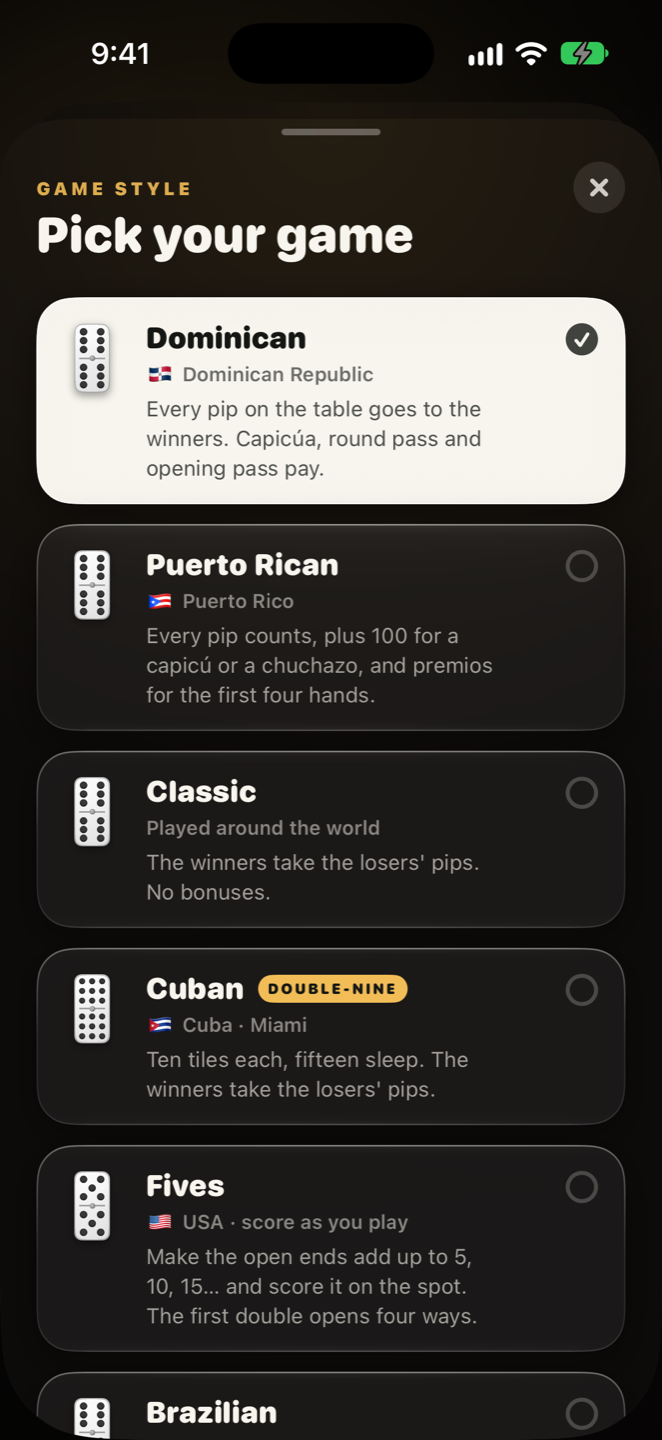
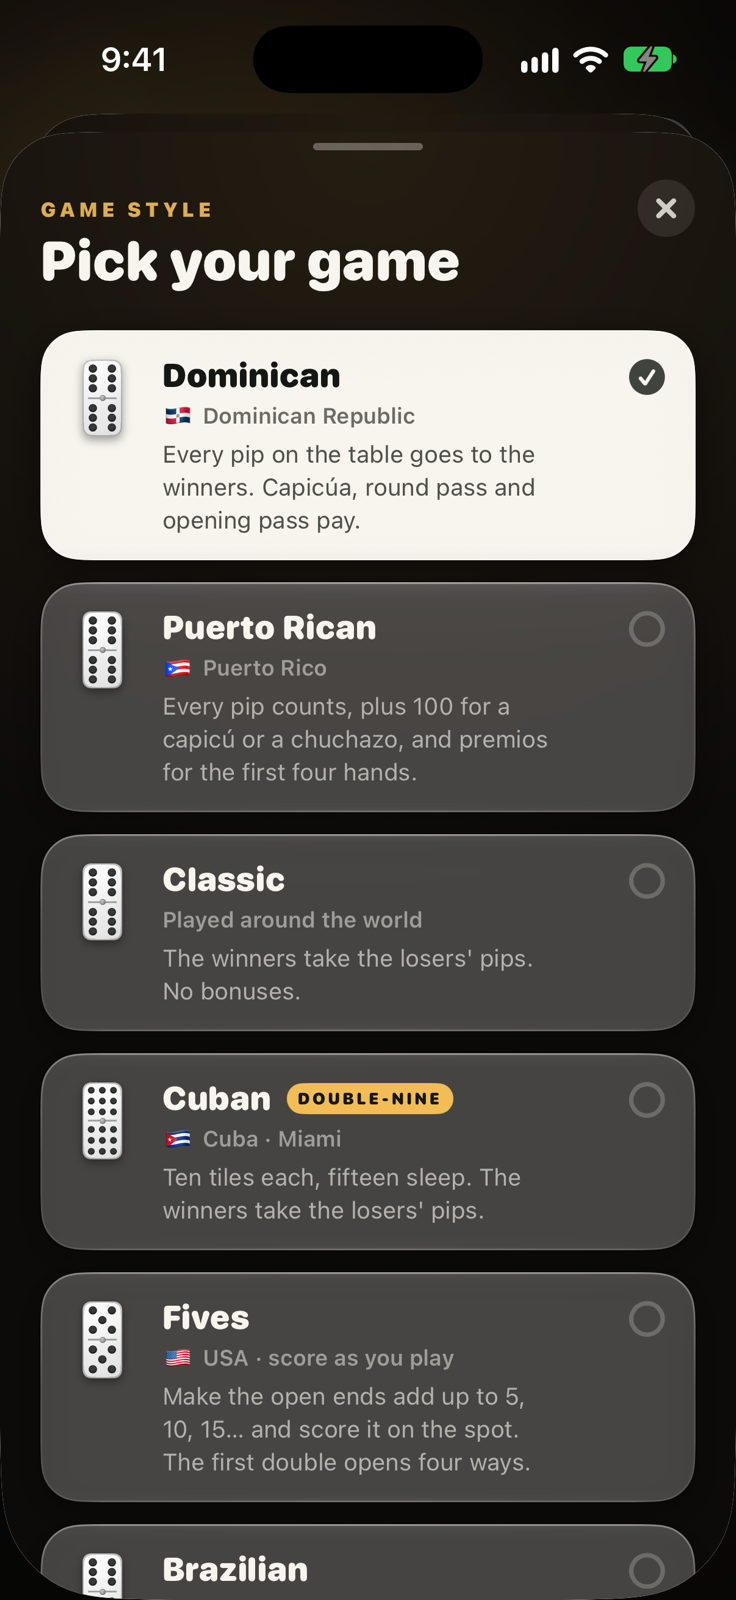
shots: the game strip recaptured with today's UI, plus a Quick Match frame (×17 caption); assets ?v=20261001a

diff --git a/index.html b/index.html
@@ -14,25 +14,25 @@
     <meta property="og:title" content="Magic Domino™ — Keep the score. Play the game.">
     <meta property="og:description" content="The dominoes scorekeeper trusted at real tables, and a real domino game with the rules you grew up with. Two rooms, one app.">
     <meta property="og:url" content="https://magicdomino.com/">
-    <meta property="og:image" content="https://magicdomino.com/social-card.png?v=20260931c">
+    <meta property="og:image" content="https://magicdomino.com/social-card.png?v=20261001a">
     <meta property="og:image:width" content="1024">
     <meta property="og:image:height" content="500">
     <meta name="twitter:card" content="summary_large_image">
     <meta name="twitter:title" content="Magic Domino™ — Keep the score. Play the game.">
     <meta name="twitter:description" content="The dominoes scorekeeper trusted at real tables, and a real domino game with the rules you grew up with. Two rooms, one app.">
-    <meta name="twitter:image" content="https://magicdomino.com/social-card.png?v=20260931c">
+    <meta name="twitter:image" content="https://magicdomino.com/social-card.png?v=20261001a">
 
     <link rel="preconnect" href="https://fonts.googleapis.com">
     <link rel="preconnect" href="https://fonts.gstatic.com" crossorigin>
     <link href="https://fonts.googleapis.com/css2?family=Fraunces:ital,opsz,wght@0,9..144,400;0,9..144,500;0,9..144,600;0,9..144,700;0,9..144,800;1,9..144,500&family=Inter:wght@400;500;600;700&display=swap" rel="stylesheet">
-    <link rel="stylesheet" href="site.css?v=20260931c">
-    <script src="/i18n.js?v=20260931c"></script>
+    <link rel="stylesheet" href="site.css?v=20261001a">
+    <script src="/i18n.js?v=20261001a"></script>
 </head>
 <body>
 
     <nav class="navbar" id="navbar">
         <a href="index.html" class="navbar-brand">
-            <img src="app-icon.png?v=20260931c" alt="" class="brand-icon"><span>Magic Domino<span class="brand-tm">™</span></span>
+            <img src="app-icon.png?v=20261001a" alt="" class="brand-icon"><span>Magic Domino<span class="brand-tm">™</span></span>
         </a>
         <button class="mobile-menu-toggle" onclick="toggleMenu()" aria-label="Menu" data-i18n-attr="aria-label:a11y.menu">☰</button>
         <div class="navbar-links" id="navbarLinks">
@@ -60,7 +60,7 @@
                     <a class="pane-link" href="#score"><span data-i18n="hero.scoreLink">See the scorekeeper</span> <span aria-hidden="true">↓</span></a>
                 </div>
                 <!-- A real phone, showing the real scoreboard, rising out of the pane. -->
-                <figure class="mock mock-score" aria-hidden="true"><img src="hero-score.png?v=20260931c" alt="" width="736" height="1600"></figure>
+                <figure class="mock mock-score" aria-hidden="true"><img src="hero-score.png?v=20261001a" alt="" width="736" height="1600"></figure>
             </div>
 
             <div class="pane pane-play world-play">
@@ -71,7 +71,7 @@
                     <a class="pane-link" href="#play"><span data-i18n="hero.playLink">See the game</span> <span aria-hidden="true">↓</span></a>
                 </div>
                 <!-- A real phone, showing the table mid-hand. -->
-                <figure class="mock mock-play" aria-hidden="true"><img src="hero-play.png?v=20260931c" alt="" width="736" height="1600"></figure>
+                <figure class="mock mock-play" aria-hidden="true"><img src="hero-play.png?v=20261001a" alt="" width="736" height="1600"></figure>
             </div>
 
         </div>
@@ -123,15 +123,15 @@
                 <button class="scroll-arrow scroll-arrow-left" aria-label="Previous screenshots" data-i18n-attr="aria-label:a11y.prevShots" onclick="scrollStrip('scoreStrip', -1)">‹</button>
                 <div class="strip" id="scoreStrip">
                     <figure class="shot"><div class="shot-frame">
-                        <img src="shot-2.png?v=20260931c" alt="Scoreboard view" data-i18n-attr="alt:alt.shot2" data-missing onload="shotLoaded(this)" onerror="this.remove()" loading="lazy">
+                        <img src="shot-2.png?v=20261001a" alt="Scoreboard view" data-i18n-attr="alt:alt.shot2" data-missing onload="shotLoaded(this)" onerror="this.remove()" loading="lazy">
                         <div class="ph"><div class="ph-title" data-i18n="alt.shot2">Scoreboard view</div></div>
                     </div></figure>
                     <figure class="shot"><div class="shot-frame">
-                        <img src="shot-3.png?v=20260931c" alt="Tournament bracket" data-i18n-attr="alt:alt.shot3" data-missing onload="shotLoaded(this)" onerror="this.remove()" loading="lazy">
+                        <img src="shot-3.png?v=20261001a" alt="Tournament bracket" data-i18n-attr="alt:alt.shot3" data-missing onload="shotLoaded(this)" onerror="this.remove()" loading="lazy">
                         <div class="ph"><div class="ph-title" data-i18n="alt.shot3">Tournament bracket</div></div>
                     </div></figure>
                     <figure class="shot"><div class="shot-frame">
-                        <img src="shot-4.png?v=20260931c" alt="Game history" data-i18n-attr="alt:alt.shot4" data-missing onload="shotLoaded(this)" onerror="this.remove()" loading="lazy">
+                        <img src="shot-4.png?v=20261001a" alt="Game history" data-i18n-attr="alt:alt.shot4" data-missing onload="shotLoaded(this)" onerror="this.remove()" loading="lazy">
                         <div class="ph"><div class="ph-title" data-i18n="alt.shot4">Game history</div></div>
                     </div></figure>
                 </div>
@@ -167,27 +167,31 @@
                 <button class="scroll-arrow scroll-arrow-left" aria-label="Previous screenshots" data-i18n-attr="aria-label:a11y.prevShots" onclick="scrollStrip('playStrip', -1)">‹</button>
                 <div class="strip" id="playStrip">
                     <figure class="shot"><div class="shot-frame">
-                        <img src="play-shot-1.png?v=20260931c" alt="The table" data-i18n-attr="alt:pshots.s1" data-missing onload="shotLoaded(this)" onerror="this.remove()" loading="lazy">
+                        <img src="play-shot-1.png?v=20261001a" alt="The table" data-i18n-attr="alt:pshots.s1" data-missing onload="shotLoaded(this)" onerror="this.remove()" loading="lazy">
                         <div class="ph"><div class="ph-title" data-i18n="pshots.s1">The table</div></div>
                     </div></figure>
                     <figure class="shot"><div class="shot-frame">
-                        <img src="play-shot-2.png?v=20260931c" alt="The front door" data-i18n-attr="alt:pshots.s5" data-missing onload="shotLoaded(this)" onerror="this.remove()" loading="lazy">
+                        <img src="play-shot-2.png?v=20261001a" alt="The front door" data-i18n-attr="alt:pshots.s5" data-missing onload="shotLoaded(this)" onerror="this.remove()" loading="lazy">
                         <div class="ph"><div class="ph-title" data-i18n="pshots.s5">The front door</div></div>
                     </div></figure>
                     <figure class="shot"><div class="shot-frame">
-                        <img src="play-shot-3.png?v=20260931c" alt="Pick your game" data-i18n-attr="alt:pshots.s2" data-missing onload="shotLoaded(this)" onerror="this.remove()" loading="lazy">
+                        <img src="play-shot-3.png?v=20261001a" alt="Pick your game" data-i18n-attr="alt:pshots.s2" data-missing onload="shotLoaded(this)" onerror="this.remove()" loading="lazy">
                         <div class="ph"><div class="ph-title" data-i18n="pshots.s2">Pick your game</div></div>
                     </div></figure>
                     <figure class="shot"><div class="shot-frame">
-                        <img src="play-shot-4.png?v=20260931c" alt="Play together" data-i18n-attr="alt:pshots.s3" data-missing onload="shotLoaded(this)" onerror="this.remove()" loading="lazy">
+                        <img src="play-shot-7.png?v=20261001a" alt="Find a match" data-i18n-attr="alt:pshots.s7" data-missing onload="shotLoaded(this)" onerror="this.remove()" loading="lazy">
+                        <div class="ph"><div class="ph-title" data-i18n="pshots.s7">Find a match</div></div>
+                    </div></figure>
+                    <figure class="shot"><div class="shot-frame">
+                        <img src="play-shot-4.png?v=20261001a" alt="Play together" data-i18n-attr="alt:pshots.s3" data-missing onload="shotLoaded(this)" onerror="this.remove()" loading="lazy">
                         <div class="ph"><div class="ph-title" data-i18n="pshots.s3">Play together</div></div>
                     </div></figure>
                     <figure class="shot"><div class="shot-frame">
-                        <img src="play-shot-5.png?v=20260931c" alt="The bracket" data-i18n-attr="alt:pshots.s4" data-missing onload="shotLoaded(this)" onerror="this.remove()" loading="lazy">
+                        <img src="play-shot-5.png?v=20261001a" alt="The bracket" data-i18n-attr="alt:pshots.s4" data-missing onload="shotLoaded(this)" onerror="this.remove()" loading="lazy">
                         <div class="ph"><div class="ph-title" data-i18n="pshots.s4">The bracket</div></div>
                     </div></figure>
                     <figure class="shot"><div class="shot-frame">
-                        <img src="play-shot-6.png?v=20260931c" alt="The hand is over" data-i18n-attr="alt:pshots.s6" data-missing onload="shotLoaded(this)" onerror="this.remove()" loading="lazy">
+                        <img src="play-shot-6.png?v=20261001a" alt="The hand is over" data-i18n-attr="alt:pshots.s6" data-missing onload="shotLoaded(this)" onerror="this.remove()" loading="lazy">
                         <div class="ph"><div class="ph-title" data-i18n="pshots.s6">The hand is over</div></div>
                     </div></figure>
                 </div>
@@ -213,7 +217,7 @@
                     <p class="lead" data-i18n="duo.desc">On the foldable iPhone, Magic Domino opens into two halves: the scoreboard on one side, the table on the other. Keep the score of the game in front of you while a hand plays out beside it — or put the bracket beside the match.</p>
                 </div>
                 <figure class="duo-frame">
-                    <img src="duo-split.png?v=20260931c" alt="Magic Domino on an opened iPhone Duo: the scoreboard on the left half, a domino hand in play on the right" width="1800" height="1266" loading="lazy">
+                    <img src="duo-split.png?v=20261001a" alt="Magic Domino on an opened iPhone Duo: the scoreboard on the left half, a domino hand in play on the right" width="1800" height="1266" loading="lazy">
                 </figure>
             </div>
         </div>
@@ -243,7 +247,7 @@
 
     <footer>
         <a href="#top" class="footer-brand">
-            <img src="app-icon.png?v=20260931c" alt="" class="brand-icon"><span>Magic Domino<span class="brand-tm">™</span></span>
+            <img src="app-icon.png?v=20261001a" alt="" class="brand-icon"><span>Magic Domino<span class="brand-tm">™</span></span>
         </a>
         <div class="store-row footer-store">
             <a href="https://apps.apple.com/us/app/magic-domino-ai-scorekeeper/id6747228055" class="store-badge" aria-label="Download on the App Store">

diff --git a/i18n.js b/i18n.js
@@ -518,6 +518,7 @@
 
     "pshots.s5": { en:"The front door", es:"La puerta de entrada", fr:"La porte d’entrée", pt:"A porta de entrada", ar:"الباب الرئيسي", zh:"大门", nl:"De voordeur", de:"Der Eingang", hi:"सामने का दरवाज़ा", bn:"সদর দরজা", id:"Pintu depan", ur:"داخلی دروازہ", tr:"Giriş kapısı", it:"La porta d’ingresso", ja:"玄関", ko:"현관", ru:"Парадный вход" },
     "pshots.s6": { en:"The hand is over", es:"Fin de la mano", fr:"Fin de la main", pt:"Fim da mão", ar:"انتهت الجولة", zh:"一局结束", nl:"De hand is gespeeld", de:"Die Hand ist gespielt", hi:"हाथ ख़त्म", bn:"হাত শেষ", id:"Ronde selesai", ur:"ہاتھ ختم", tr:"El bitti", it:"Fine della mano", ja:"一局の終わり", ko:"한 판 종료", ru:"Партия сыграна" },
+    "pshots.s7": { en:"Find a match", es:"Busca partida", fr:"Trouvez une partie", pt:"Encontre uma partida", ar:"ابحث عن مباراة", zh:"快速匹配", nl:"Zoek een potje", de:"Finde ein Spiel", hi:"मैच ढूँढें", bn:"ম্যাচ খুঁজুন", id:"Cari lawan", ur:"میچ تلاش کریں", tr:"Rakip bul", it:"Trova una partita", ja:"対戦相手を探す", ko:"상대 찾기", ru:"Найдите соперника" },
     "duo.eyebrow": { en:"iPhone Duo", es:"iPhone Duo", fr:"iPhone Duo", pt:"iPhone Duo", ar:"iPhone Duo", zh:"iPhone Duo", nl:"iPhone Duo", de:"iPhone Duo", hi:"iPhone Duo", bn:"iPhone Duo", id:"iPhone Duo", ur:"iPhone Duo", tr:"iPhone Duo", it:"iPhone Duo", ja:"iPhone Duo", ko:"iPhone Duo", ru:"iPhone Duo" },
     "duo.title": { en:"Keeping score? Tap Play, and <em>the table</em> opens on the other half.", es:"¿Anotando? Toca Jugar y <em>la mesa</em> se abre en la otra mitad.", fr:"Vous tenez le score ? Touchez Jouer, et <em>la table</em> s’ouvre sur l’autre moitié.", pt:"Marcando pontos? Toque em Jogar e <em>a mesa</em> abre na outra metade.", ar:"تسجّل النقاط؟ اضغط «العب» وتنفتح <em>الطاولة</em> في النصف الآخر.", zh:"正在记分？点一下「打牌」，<em>牌桌</em>就在另一半打开。", nl:"Stand aan het bijhouden? Tik op Spelen en <em>de tafel</em> opent op de andere helft.", de:"Du führst den Stand? Tipp auf Spielen, und <em>der Tisch</em> öffnet sich auf der anderen Hälfte.", hi:"स्कोर रख रहे हैं? Play पर टैप करें और <em>मेज़</em> दूसरे आधे में खुल जाती है।", bn:"স্কোর রাখছেন? Play-এ ট্যাপ করুন, <em>টেবিল</em> অন্য অর্ধে খুলে যায়।", id:"Sedang mencatat skor? Ketuk Main, dan <em>mejanya</em> terbuka di separuh yang lain.", ur:"اسکور رکھ رہے ہیں؟ Play پر ٹیپ کریں اور <em>میز</em> دوسرے آدھے میں کھل جاتی ہے۔", tr:"Puan mı tutuyorsun? Oyna’ya dokun, <em>masa</em> öbür yarıda açılsın.", it:"Stai segnando i punti? Tocca Gioca e <em>il tavolo</em> si apre sull’altra metà.", ja:"スコアをつけている途中で「プレイ」をタップすると、もう半分に<em>卓</em>が開きます。", ko:"점수를 기록하는 중에 플레이를 누르면 <em>판</em>이 다른 반쪽에 열립니다.", ru:"Ведёте счёт? Нажмите «Играть» — и <em>стол</em> откроется на второй половине." },
     "duo.desc": { en:"On the opened iPhone Duo the two rooms share one screen. Keep a game's score on one half, tap Play, and a hand deals on the other. The camera counter opens beside the scoreboard the same way, and a tournament puts the bracket beside the match.", es:"En el iPhone Duo abierto las dos salas comparten una pantalla. Lleva la cuenta de una partida en una mitad, toca Jugar y en la otra se reparte una mano. El contador con cámara se abre junto al marcador de la misma forma, y un torneo pone el cuadro junto a la partida.", fr:"Sur l’iPhone Duo ouvert, les deux salles partagent un seul écran. Tenez le score d’une partie sur une moitié, touchez Jouer, et une main se distribue sur l’autre. Le compteur par caméra s’ouvre à côté du score de la même façon, et un tournoi place le tableau à côté du match.", pt:"No iPhone Duo aberto, as duas salas dividem uma só tela. Marque os pontos de uma partida em uma metade, toque em Jogar e uma mão é distribuída na outra. O contador por câmera abre ao lado do placar do mesmo jeito, e um torneio coloca a chave ao lado da partida.", ar:"على iPhone Duo المفتوح تتشارك الغرفتان شاشةً واحدة. سجّل نقاط مباراة في نصف، واضغط «العب» فتُوزَّع جولة في النصف الآخر. يُفتح عدّاد الكاميرا بجانب لوحة النتائج بالطريقة نفسها، والبطولة تضع الجدول بجانب المباراة.", zh:"在展开的 iPhone Duo 上，两个房间共用一块屏幕。一半记着一局的分，点一下「打牌」，另一半就发出一手牌。相机计数器同样会在比分旁打开，锦标赛则把对阵表摆在比赛旁边。", nl:"Op de opengevouwen iPhone Duo delen de twee kamers één scherm. Houd op de ene helft de stand van een spel bij, tik op Spelen en op de andere wordt een hand gedeeld. De camerateller opent op dezelfde manier naast de stand, en een toernooi zet het schema naast de partij.", de:"Auf dem aufgeklappten iPhone Duo teilen sich beide Räume einen Bildschirm. Führ auf einer Hälfte den Stand einer Partie, tipp auf Spielen, und auf der anderen wird eine Hand gegeben. Der Kamerazähler öffnet sich genauso neben dem Stand, und ein Turnier stellt den Turnierbaum neben die Partie.", hi:"खुले iPhone Duo पर दोनों कमरे एक ही स्क्रीन बाँटते हैं। एक आधे में खेल का स्कोर रखें, Play पर टैप करें, और दूसरे में एक हाथ बँट जाता है। कैमरा काउंटर इसी तरह स्कोरबोर्ड के बगल में खुलता है, और टूर्नामेंट ब्रैकेट को मैच के बगल में रखता है।", bn:"খোলা iPhone Duo-তে দুটো ঘর একটাই স্ক্রিন ভাগ করে নেয়। এক অর্ধে খেলার স্কোর রাখুন, Play-এ ট্যাপ করুন, অন্য অর্ধে একটা হাত বিলি হয়ে যায়। ক্যামেরা কাউন্টারও একইভাবে স্কোরবোর্ডের পাশে খোলে, আর টুর্নামেন্ট ব্র্যাকেটকে রাখে ম্যাচের পাশে।", id:"Di iPhone Duo yang terbuka, kedua ruang berbagi satu layar. Catat skor sebuah permainan di satu separuh, ketuk Main, dan satu ronde dibagikan di separuh lainnya. Penghitung kamera terbuka di samping papan skor dengan cara yang sama, dan turnamen menaruh bagan di samping pertandingan.", ur:"کھلے iPhone Duo پر دونوں کمرے ایک ہی اسکرین بانٹتے ہیں۔ ایک آدھے میں گیم کا اسکور رکھیں، Play پر ٹیپ کریں، اور دوسرے میں ایک ہاتھ بٹ جاتا ہے۔ کیمرا کاؤنٹر اسی طرح اسکور بورڈ کے ساتھ کھلتا ہے، اور ٹورنامنٹ بریکٹ کو میچ کے ساتھ رکھتا ہے۔", tr:"Açık iPhone Duo’da iki oda tek ekranı paylaşır. Bir yarıda bir oyunun puanını tut, Oyna’ya dokun, öbür yarıda bir el dağıtılsın. Kamera sayacı da aynı şekilde skorun yanında açılır; turnuvada fikstür maçın yanına gelir.", it:"Sull’iPhone Duo aperto le due stanze condividono un solo schermo. Segna i punti di una partita su una metà, tocca Gioca e sull’altra si distribuisce una mano. Il contatore con la fotocamera si apre accanto al punteggio allo stesso modo, e un torneo mette il tabellone accanto alla partita.", ja:"開いたiPhone Duoでは、ふたつの部屋がひとつの画面を分け合います。片側でゲームのスコアをつけながら「プレイ」をタップすれば、もう片側で一局が配られます。カメラのカウンターも同じようにスコアの隣に開き、トーナメントでは対戦表が試合の隣に並びます。", ko:"펼친 iPhone Duo에서는 두 개의 방이 한 화면을 나눠 씁니다. 한쪽에서 게임 점수를 기록하다가 플레이를 누르면 다른 쪽에 한 판이 펼쳐집니다. 카메라 카운터도 같은 방식으로 점수판 옆에 열리고, 토너먼트에서는 대진표가 경기 옆에 놓입니다.", ru:"На раскрытом iPhone Duo обе комнаты делят один экран. Ведите счёт игры на одной половине, нажмите «Играть» — и на другой раздастся партия. Счётчик с камерой так же открывается рядом со счётом, а в турнире сетка встаёт рядом с матчем." },

diff --git a/privacy.html b/privacy.html
@@ -9,13 +9,13 @@
     <link rel="preconnect" href="https://fonts.googleapis.com">
     <link rel="preconnect" href="https://fonts.gstatic.com" crossorigin>
     <link href="https://fonts.googleapis.com/css2?family=Fraunces:ital,opsz,wght@0,9..144,400;0,9..144,500;0,9..144,600;0,9..144,700;1,9..144,500&family=Inter:wght@400;500;600;700&display=swap" rel="stylesheet">
-    <link rel="stylesheet" href="site.css?v=20260930x">
-    <script src="/i18n.js?v=20260930x"></script>
+    <link rel="stylesheet" href="site.css?v=20261001a">
+    <script src="/i18n.js?v=20261001a"></script>
 </head>
 <body>
     <nav class="navbar">
         <a href="index.html" class="navbar-brand">
-            <img src="app-icon.png?v=20260930x" alt="" class="brand-icon"><span>Magic Domino<span class="brand-tm">™</span></span>
+            <img src="app-icon.png?v=20261001a" alt="" class="brand-icon"><span>Magic Domino<span class="brand-tm">™</span></span>
         </a>
         <button class="mobile-menu-toggle" onclick="toggleMenu()" aria-label="Menu" data-i18n-attr="aria-label:a11y.menu">☰</button>
         <div class="navbar-links" id="navbarLinks">
@@ -136,7 +136,7 @@
 
     <footer>
         <a href="index.html" class="footer-brand">
-            <img src="app-icon.png?v=20260930x" alt="" class="brand-icon"><span>Magic Domino<span class="brand-tm">™</span></span>
+            <img src="app-icon.png?v=20261001a" alt="" class="brand-icon"><span>Magic Domino<span class="brand-tm">™</span></span>
         </a>
         <div class="footer-links">
             <a href="index.html#score" data-i18n="nav.score">Scorekeeper</a>

diff --git a/support.html b/support.html
@@ -9,13 +9,13 @@
     <link rel="preconnect" href="https://fonts.googleapis.com">
     <link rel="preconnect" href="https://fonts.gstatic.com" crossorigin>
     <link href="https://fonts.googleapis.com/css2?family=Fraunces:ital,opsz,wght@0,9..144,400;0,9..144,500;0,9..144,600;0,9..144,700;1,9..144,500&family=Inter:wght@400;500;600;700&display=swap" rel="stylesheet">
-    <link rel="stylesheet" href="site.css?v=20260930x">
-    <script src="/i18n.js?v=20260930x"></script>
+    <link rel="stylesheet" href="site.css?v=20261001a">
+    <script src="/i18n.js?v=20261001a"></script>
 </head>
 <body>
     <nav class="navbar">
         <a href="index.html" class="navbar-brand">
-            <img src="app-icon.png?v=20260930x" alt="" class="brand-icon"><span>Magic Domino<span class="brand-tm">™</span></span>
+            <img src="app-icon.png?v=20261001a" alt="" class="brand-icon"><span>Magic Domino<span class="brand-tm">™</span></span>
         </a>
         <button class="mobile-menu-toggle" onclick="toggleMenu()" aria-label="Menu" data-i18n-attr="aria-label:a11y.menu">☰</button>
         <div class="navbar-links" id="navbarLinks">
@@ -248,7 +248,7 @@
 
     <footer>
         <a href="index.html" class="footer-brand">
-            <img src="app-icon.png?v=20260930x" alt="" class="brand-icon"><span>Magic Domino<span class="brand-tm">™</span></span>
+            <img src="app-icon.png?v=20261001a" alt="" class="brand-icon"><span>Magic Domino<span class="brand-tm">™</span></span>
         </a>
         <div class="footer-links">
             <a href="index.html#score" data-i18n="nav.score">Scorekeeper</a>

diff --git a/terms.html b/terms.html
@@ -9,13 +9,13 @@
     <link rel="preconnect" href="https://fonts.googleapis.com">
     <link rel="preconnect" href="https://fonts.gstatic.com" crossorigin>
     <link href="https://fonts.googleapis.com/css2?family=Fraunces:ital,opsz,wght@0,9..144,400;0,9..144,500;0,9..144,600;0,9..144,700;1,9..144,500&family=Inter:wght@400;500;600;700&display=swap" rel="stylesheet">
-    <link rel="stylesheet" href="site.css?v=20260930x">
-    <script src="/i18n.js?v=20260930x"></script>
+    <link rel="stylesheet" href="site.css?v=20261001a">
+    <script src="/i18n.js?v=20261001a"></script>
 </head>
 <body>
     <nav class="navbar">
         <a href="index.html" class="navbar-brand">
-            <img src="app-icon.png?v=20260930x" alt="" class="brand-icon"><span>Magic Domino<span class="brand-tm">™</span></span>
+            <img src="app-icon.png?v=20261001a" alt="" class="brand-icon"><span>Magic Domino<span class="brand-tm">™</span></span>
         </a>
         <button class="mobile-menu-toggle" onclick="toggleMenu()" aria-label="Menu" data-i18n-attr="aria-label:a11y.menu">☰</button>
         <div class="navbar-links" id="navbarLinks">
@@ -176,7 +176,7 @@
 
     <footer>
         <a href="index.html" class="footer-brand">
-            <img src="app-icon.png?v=20260930x" alt="" class="brand-icon"><span>Magic Domino<span class="brand-tm">™</span></span>
+            <img src="app-icon.png?v=20261001a" alt="" class="brand-icon"><span>Magic Domino<span class="brand-tm">™</span></span>
         </a>
         <div class="footer-links">
             <a href="index.html#score" data-i18n="nav.score">Scorekeeper</a>

diff --git a/404.html b/404.html
@@ -217,7 +217,7 @@
         .store-badge img { height: 44px; }
     }
 </style>
-    <script src="/i18n.js?v=20260930x"></script>
+    <script src="/i18n.js?v=20261001a"></script>
 </head>
 <body>
 <div class="dot-bg"></div>

diff --git a/SCREENSHOTS.md b/SCREENSHOTS.md
@@ -49,16 +49,23 @@ resolution at the 736 : 1600 aspect), add its `<figure>` back as the first item 
 
 | File | Shows |
 |---|---|
-| `play-shot-1.png` | The table mid-hand: 1 v 1 against Rico, ten tiles down, three playable tiles lit |
+| `play-shot-1.png` | The table mid-hand: 1 v 1 against Rico, nine tiles down, two playable tiles lit, pile 14 |
 | `play-shot-2.png` | The Play home: the three cards, Computer in front, Table setup row, Deal |
 | `play-shot-3.png` | Pick your game: the ten tables, Dominican selected |
-| `play-shot-4.png` | An Anywhere lobby with its six-letter code, one open seat |
+| `play-shot-7.png` | The Online sheet's Quick Match card: Game (Dominican, to 200), Players (1 vs 1), Find a match |
+| `play-shot-4.png` | An Anywhere lobby: its six-letter code, one open seat, the "Open empty seats to strangers" switch (off) |
 | `play-shot-5.png` | A tournament bracket: Singles · 4, semi-final You vs Vega |
-| `play-shot-6.png` | The hand card: RICO TAKES THE HAND · NO SCORE · Race to 200 |
+| `play-shot-6.png` | The hand card: RICO TAKES THE HAND · +5 · Race to 200 |
 
-Captured 2026-09-30 on an iPhone 17 Pro simulator (a fresh device named
-"MD Site Shots", launched with `-debugLaunchTab play -debugPremium 1` so no ad
-banner shows; `hasSeenOnboarding` set with `simctl spawn … defaults write`).
+The table above is in STRIP order; `play-shot-7.png` sits between the picker and the
+lobby because that is the order a player meets them online (caption key `pshots.s7`).
+All seven are 736 × 1600, resized from 1206 × 2622 `simctl io … screenshot` captures,
+recaptured 2026-10-01 on "MD Site Shots" with the status bar overridden to 9:41
+(the table and the hand card show none — Play hides it in a game). Launched with
+`-debugLaunchTab play -debugPremium 1` so no ad banner shows;
+`hasSeenOnboarding` set with `simctl spawn … defaults write`. ⚠ On 2026-10-01 that
+launch opened on the scorekeeper's Tournament page instead of Play (a scorekeeper
+tournament was live on the device); tapping Play in the tab bar works.
 Replace any of them by dropping a new PNG under the same name.
 
 ## The Duo
